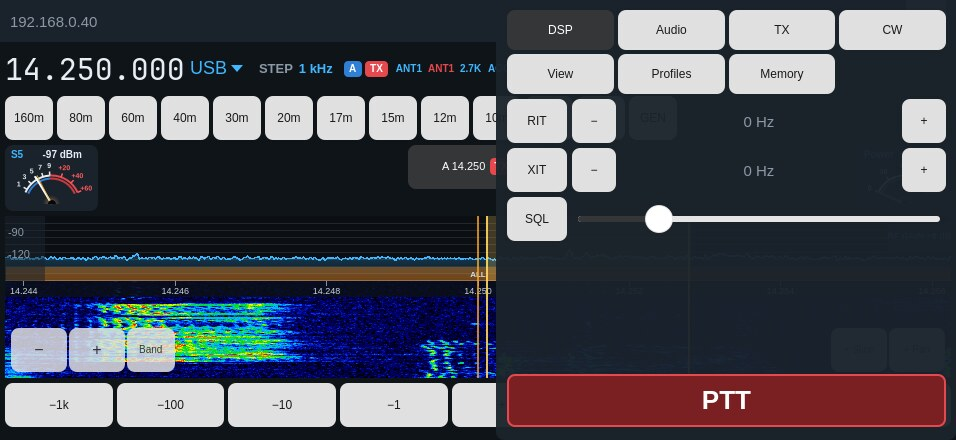
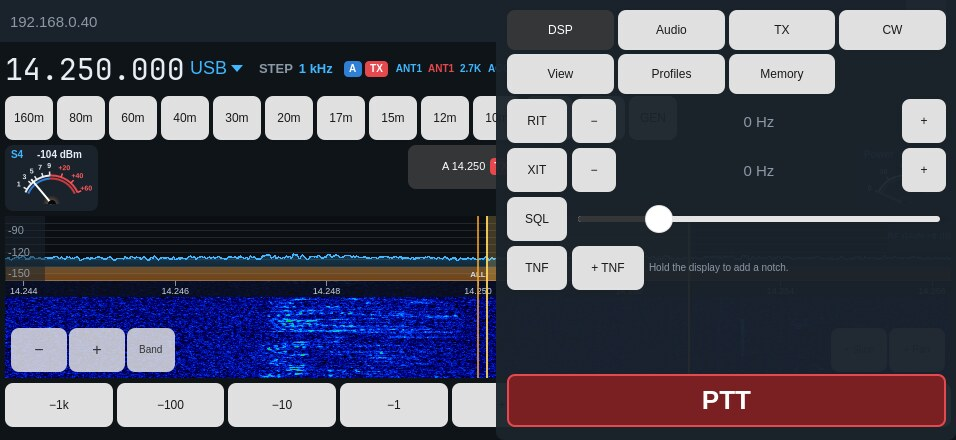
mobile: docs, notes and screenshots for build 77 and Android beta 2
- Manual: spots and the DX cluster, notches (TNF), memory editing, TX
  processing, voice keyer Listen, the Mic meter with this device's
  microphone, Android's microphone permission, the CPU and thread rows;
  new pictures tnf, memory-edit, tx-processing.
- README features and status, ROADMAP (build 77, beta 2, platforms),
  TestFlight notes for build 77, tester guide (Android microphone).
- README and manual screenshots refreshed against the FLEX-6600M.
- mobile/android/release.env + RELEASE_NOTES.md: CI publishes
  android-beta-2 with this push.
- docs-check: a waiver counts only when every commit that calls for the
  rule carries it; Android release notes are checked too.

Claude-Session: https://claude.ai/code/session_01KANojkzU64KoozGDbNDzRK

diff --git a/mobile/tools/docs-check.py b/mobile/tools/docs-check.py
@@ -15,8 +15,9 @@ have yet) and the docs as they are at HEAD:
   * every relative link, image and #anchor in the docs resolves;
   * the docs carry no old repository names, phone numbers or radio serials.
 
-A rule that does not apply to a change is waived with a commit trailer
-anywhere in the range, which also records why:
+A rule that does not apply to a change is waived with a commit trailer,
+which also records why; every commit in the range that calls for the rule
+must carry it:
 
     Manual: unchanged (internal fix)
     Screenshots: unchanged (no visible change)
@@ -41,7 +42,7 @@ IOS_WORKFLOW = ROOT / ".github/workflows/mobile-ios.yml"
 NOTES = "mobile/TESTFLIGHT_WHATS_NEW.txt"
 ROADMAP = "mobile/ROADMAP.md"
 MANUAL = "docs/mobile/MANUAL.md"
-DOCS = ["README.md", "docs/mobile/*.md", "mobile/*.md"]
+DOCS = ["README.md", "docs/mobile/*.md", "mobile/*.md", "mobile/android/*.md"]
 SCREENSHOTS = ["docs/mobile/*.jpg", "docs/mobile/manual/*.jpg"]
 NOTES_LIMIT = 4000
 
@@ -174,16 +175,31 @@ def main():
 
     if base:
         changed = [p for p in git("diff", "--name-only", f"{base}..{args.head}").splitlines() if p]
-        messages = git("log", "--format=%B", f"{base}..{args.head}")
-        waived = {m.group(1).lower() for m in re.finditer(r"^(Manual|Screenshots|Roadmap|Notes):\s*unchanged",
-                                                           messages, re.M | re.I)}
-        app = [p for p in changed if any(matches(p, pat) for pat in app_patterns())]
+        patterns = app_patterns()
+        app = [p for p in changed if any(matches(p, pat) for pat in patterns)]
         ui = [p for p in changed if p.startswith("mobile/qml/")]
+
+        # Per commit: what it touched and which rules its message waives. A
+        # rule is waived only when every commit that calls for it says so,
+        # so one commit's trailer cannot excuse the others.
+        commits = []
+        for sha in git("rev-list", f"{base}..{args.head}").split():
+            files = git("diff-tree", "--no-commit-id", "--name-only", "-r", "--root", sha).split()
+            message = git("log", "-1", "--format=%B", sha)
+            waives = {m.group(1).lower() for m in re.finditer(
+                r"^(Manual|Screenshots|Roadmap|Notes):\s*unchanged", message, re.M | re.I)}
+            commits.append((files, waives))
+
+        def calls_for(rule, files):
+            if rule in ("notes", "roadmap"):
+                return any(any(matches(p, pat) for pat in patterns) for p in files)
+            return any(p.startswith("mobile/qml/") for p in files)
 
         def need(rule, ok, message):
             if ok:
                 return
-            if rule in waived:
+            callers = [w for files, w in commits if calls_for(rule, files)]
+            if callers and all(rule in w for w in callers):
                 notes.append(f"{message} (waived: \"{rule.capitalize()}: unchanged\")")
             else:
                 errors.append(message)

diff --git a/docs/mobile/MANUAL.md b/docs/mobile/MANUAL.md
@@ -94,10 +94,13 @@ the time show. Tap it for the details:
   per stream (audio, spectrum, waterfall, meters). Packets that merely
   arrive out of order are not counted as lost.
 - **Traffic** — receive and send rates and totals.
-- **Performance** — the app's CPU, as a share of all cores (also shown in the
-  top row) and of one core, and the screen frames drawn per second. iOS gives
-  apps no GPU load; frames drawn falling well below the display's rate means
-  the graphics are not keeping up.
+- **Performance** — the app's CPU as a share of all cores (also shown in the
+  top row), the same added up over all its threads with one core = 100 %
+  (102 % is about one core's worth spread over several threads, not one
+  core full), on Android the **busiest threads** (UI, render, audio…; one
+  near 100 % is a core at its limit), and the screen frames drawn per
+  second. iOS and Android give apps no GPU load; frames drawn falling well
+  below the display's rate means the graphics are not keeping up.
 
 ## 3. Frequency, mode and the info panel
 
@@ -186,7 +189,10 @@ remembered.
 ![Meter chooser](manual/meter.jpg)
 
 Available: S, Power, SWR, ALC, Mic, Compression, PA temperature, supply
-voltage. Transmit meters read only while transmitting.
+voltage. Transmit meters read only while transmitting. **Mic** with this
+device's microphone shows the level of the audio as it is sent (after the
+processing in Controls → TX), while you transmit; with a microphone on the
+radio it is the radio's own meter.
 
 **Peak hold.** Each meter keeps its highest reading for 1.5 s — an amber
 needle on the analog meter, an amber tick on the bar — then lets it fall
@@ -229,6 +235,21 @@ transmit slice carries a red **TX** tag. Two fit side by side, four make
   USB/LSB and centred for CW/AM. Other slices are marked; tap one to select it.
 - Your own transmission shows in the waterfall.
 - In CW, decoded text runs along the top of the waterfall.
+- **Spots** — callsigns along the top of the spectrum at their frequency:
+  the spots the radio holds, from this app's DX cluster connection and
+  from any other program on the radio. Tap one to tune to it (the mode
+  follows the spot, as on the desktop). Close ones stack in up to four
+  rows; zoom in to see more. *Spots* in View turns them off and connects
+  the DX cluster.
+- **Notches (TNF)** — **press and hold** on the display to put a notch
+  there, or *+ TNF* in Controls → DSP for one in the middle of the
+  passband. A notch shows as a band through spectrum and waterfall
+  (yellow, or green when permanent; dim while TNF is off). Tap it for its
+  width (50–500 Hz), depth, *Permanent*, a 10 Hz nudge either way and
+  *Remove*; *TNF on/off* there is the radio's switch for all notches —
+  they only work while it is on.
+
+![Notch settings](manual/tnf.jpg)
 
 **View** (in Controls) switches between the 2D waterfall and the **3D**
 stacked trace and sets the levels. They work as on the desktop AetherSDR:
@@ -309,8 +330,9 @@ them back into the drawer.
 | ![DSP](manual/tab-dsp.jpg) | ![Audio](manual/tab-audio.jpg) | ![TX](manual/tab-tx.jpg) |
 
 - **DSP** — RIT and XIT (on/off; − and + step 10 Hz and run while held,
-  faster the longer: 10, then 50, then 100 Hz; tap the value to reset), and
-  squelch.
+  faster the longer: 10, then 50, then 100 Hz; tap the value to reset),
+  squelch, and **TNF** (the radio's notch filters on/off, *+ TNF* for a
+  notch in the passband; see [Panadapter and waterfall](#5-panadapter-and-waterfall)).
 - **Audio** — **Receive audio**: *Auto* uses Opus (compressed, made for
   the internet) over SmartLink or when the radio is reached through a VPN,
   and uncompressed audio on the local network; *Opus* or *Uncompressed* fix
@@ -332,13 +354,24 @@ them back into the drawer.
   microphone — the AM **carrier** level in
   AM/SAM/DSB, monitor (MON), **Mic level** (the radio's, as SmartSDR's MIC), microphone
   choice and the transmit filter (low and high cut).
+  - **This device's microphone: processing** (voice modes, with this
+    device's microphone) — AetherSDR's client-side transmit chain, run on
+    the phone or tablet before the audio is sent: **Gate** (mutes the
+    background between words below the threshold), **EQ** (low cut
+    100–300 Hz, bass and presence ±12 dB) and **Comp** (threshold, ratio
+    2:1–8:1 and makeup; while you transmit, how much it is taking off shows
+    beside the ratio). The radio's own 8-band transmit EQ is in Audio.
+    Check the result with MON or a second receiver at low power first.
+
+    ![Processing](manual/tx-processing.jpg)
   - **Voice keyer** (voice modes) — twelve voice macros F1–F12. Tap one to
     transmit it, tap again to stop; press and hold to record (from this
     device's microphone; recording does not transmit), rename or clear. On a
     radio with SmartSDR+ these are the radio's own DVK slots (up to 10 s,
-    shared with other programs, with *Listen* to hear one without
-    transmitting); otherwise the app keeps them on this device (up to 15 s)
-    and plays them into the transmit audio as if spoken. Features that need
+    shared with other programs); otherwise the app keeps them on this
+    device (up to 15 s) and plays them into the transmit audio as if
+    spoken. Either way **Listen** plays a recording to you without
+    transmitting, so you can check it before naming it. Features that need
     SmartSDR+ appear only when the radio reports the subscription.
 
 | CW | View | Profiles | Memory |
@@ -358,11 +391,22 @@ them back into the drawer.
   - Speed, pitch, **Break-in** (QSK) and the **Decoder**. Decoded text shows
     here and along the top of the waterfall; what you send shows there too,
     marked `[TX]`.
-- **View** — 2D waterfall or 3D, waterfall levels, spectrum range, 3D floor, smoothing and gain.
+- **View** — band plan, **Spots** (shown or hidden) and the **DX cluster**,
+  2D waterfall or 3D, waterfall levels, spectrum range, 3D floor, smoothing
+  and gain.
+  - **DX cluster** — tap to connect, again to disconnect. Set the server and
+    port (default dxc.nc7j.com 7300) and the callsign it logs in with (the
+    radio's own when left empty); **Auto** connects whenever the radio
+    does. Its spots go to the radio, so SmartSDR and every other program
+    on it show them too; they expire after 30 minutes.
 - **Profiles** — the radio's global, TX and mic profiles: load, save,
   delete, as in SmartSDR.
 - **Memory** — the radio's memory channels: tap to tune, *Save* stores the
-  current frequency, press and hold to delete.
+  current frequency under the name typed. **Press and hold** one to edit
+  its name, frequency (MHz) and mode — *Current* takes the slice's
+  frequency and mode — or to *Delete* it.
+
+  ![Editing a memory](manual/memory-edit.jpg)
 
 ## 9. Radio Setup
 
@@ -452,9 +496,12 @@ Android 9 or newer, 64-bit ARM (practically every phone and tablet from the
 last years).
 
 **Permissions, asked once.**
-- *Microphone* — the first time you press PTT.
-- *Notifications* and *battery optimization* — the first time you connect.
-  Allow both: while connected, OksaSDR runs a service with a notification
+- *Notifications*, *microphone* and *battery optimization* — the first
+  time you connect. The microphone is used only while PTT is held (or a
+  voice macro is recorded); if you refused it, PTT asks again, and when
+  Android no longer asks, turn it on in Settings → Apps → OksaSDR →
+  Permissions → Microphone.
+- Allow notifications and battery: while connected, OksaSDR runs a service with a notification
   (*OksaSDR — Connected to the radio*) so receive audio and the connection
   keep going when another app is in front or the screen is off. Some phones
   (OnePlus, Xiaomi, Huawei) also have their own setting: Settings → Apps →

diff --git a/mobile/android/RELEASE_NOTES.md b/mobile/android/RELEASE_NOTES.md
@@ -1,0 +1,25 @@
+**OksaSDR for Android — beta 2.** A FlexRadio client for Android phones and tablets, built on the [AetherSDR](https://github.com/aethersdr/AetherSDR) engine: the same app as on the iPhone and iPad (TestFlight build 77), from the same code.
+
+### New in beta 2
+- **Spots and the DX cluster** — View → Spots connects to a DX cluster (your radio's callsign, or one you set); spots show as callsigns on the display, tap one to tune. Spots from other programs on the radio show too.
+- **Notch filters (TNF)** — press and hold on the display to put a notch there; tap it for width, depth, permanent or remove. DSP tab: TNF on/off and *+ TNF*.
+- **Processing of the phone's microphone** (TX tab) — gate, EQ (low cut, bass, presence) and compressor before the audio is sent. Test at low power first.
+- **Memory editing** — press and hold a memory to change its name, frequency and mode.
+- **Voice keyer** — *Listen* plays a recording back without transmitting.
+- The **Mic** meter moves with the phone's microphone while you transmit; very low windows (a foldable's outer screen in landscape) show bar meters.
+- **Microphone permission**: beta 1 never asked for it (it had to be turned on in Android's settings). Beta 2 asks on the first connect, and PTT asks again if it was refused.
+
+### Install or update
+1. Download `OksaSDR-android-beta2.apk` below on the phone (about 150 MB).
+2. Open it; allow installing from your browser or file manager when Android asks. If Chrome keeps the download waiting, open ⋮ → *Downloads* → *Keep*.
+3. Beta 2 installs over beta 1 and keeps your settings. If you have one of the earlier hand-delivered test APKs, uninstall it first (different signing key).
+
+Android 9 or newer, 64-bit ARM. On the first connect, allow notifications, the microphone and "no battery optimization" so receive keeps going in the background and PTT can transmit.
+
+### Still to verify
+- LAN discovery on the radio's own network (connect by IP works everywhere)
+- More phones and tablets: please report your model and Android version
+
+Full guide: [tester guide](https://github.com/OH6OKSA/OksaSDR/blob/mobile/oksasdr/docs/mobile/TESTING.md#android) and [user manual](https://github.com/OH6OKSA/OksaSDR/blob/mobile/oksasdr/docs/mobile/MANUAL.md#13-android).
+
+OksaSDR is a community project, not affiliated with FlexRadio and not an official AetherSDR app. Licensed under GPLv3; the source is this repository (branch `mobile/oksasdr`).

diff --git a/mobile/ROADMAP.md b/mobile/ROADMAP.md
@@ -5,6 +5,14 @@ queued, waiting on someone, or still to verify follows.
 
 ## Released
 
+**Build 77** (2026-10-17), iPhone and iPad, and Android beta 2:
+- Spots on the display and a DX cluster connection (spots go to the radio); tap to tune.
+- TNF: hold on the display to add a notch, tap it to adjust; TNF switch in DSP.
+- TX processing of this device's microphone: gate, EQ, compressor.
+- Memory editing (name, frequency, mode).
+- Voice keyer: Listen also for clips kept on the device.
+- Mic meter reads this device's microphone; very low windows show bar meters.
+
 **Build 76** (2026-10-17), iPhone and iPad:
 - Radios on the connect page read as buttons.
 - Pan slider shows C / L n / R n and snaps to centre.
@@ -38,22 +46,26 @@ service, Qt kept running), SmartLink with the sign-in kept in the Android
 Keystore, Bluetooth headsets (hands-free), log sharing, LAN discovery
 (multicast lock), crash reasons logged on the next start.
 
+Beta 2: what iOS build 77 brings (spots and DX cluster, TNF, TX
+processing, memory editing, voice keyer Listen, Mic meter). Published by CI
+from `mobile/android/release.env`.
+
 Next: verify LAN discovery on the radio's network; APK size (about 150 MB).
 
 ## Later
 
 From the comparison with upstream main and tester requests:
-- DX cluster spots on the panadapter
-- TNF (tracking notch filters)
 - Filter edge drag and custom widths
-- Memory editing (name, mode, offsets)
+- Memory offsets and tones (repeaters); memory groups
+- Dragging a notch; spot filters (band, mode, age)
 - ATU tools and per-band TX settings
 - Profile import and export
 - QSO recording
 - 3D with 768 columns
 - Upstream FFT Smooth and De-comb
 - Optional VOX mode (microphone always open)
-- The desktop's client-side TX chain (gate, EQ, compressor: CHAIN)
+- More of the desktop's TX chain (de-esser, tube, exciter, reverb) and a
+  chain order
 - CW profiles (new in SmartSDR 4.3)
 
 ## Waiting
@@ -79,6 +91,8 @@ From the comparison with upstream main and tester requests:
 | RX audio, background audio | ✅ | ✅ (foreground service) |
 | Voice TX (device mic, Bluetooth headset) | ✅ | ✅ |
 | CW, CWX, decoder, voice keyer | ✅ (CW on air to verify) | built in, to verify |
+| Spots and DX cluster, TNF, memory editing | ✅ | ✅ |
+| TX processing (gate, EQ, compressor) | ✅ | ✅ |
 | Keyboard, pencil/stylus | ✅ | to verify |
 | Phone and tablet layouts | ✅ | ✅ |
 | Distribution | TestFlight | APK in GitHub Releases (beta) |

diff --git a/README.md b/README.md
@@ -67,7 +67,14 @@ radio interface, with no computer running alongside.
   tab, remembered on the device; plus the radio's own FFT average, FFT
   frames/s and waterfall speed.
 - **Band** beside −/+ zooms out to the whole band.
-- RF gain; the radio's memory channels (recall, save, delete).
+- RF gain; the radio's memory channels (recall, save, edit name,
+  frequency and mode, delete).
+- **Spots and DX cluster**: the radio's spots (from every program on it)
+  as callsigns on the display, tap to tune; the app's own DX cluster
+  connection sends its spots to the radio, as the desktop does.
+- **Notch filters (TNF)**: press and hold on the display for a notch, tap
+  it for width, depth, permanent or remove; drawn through spectrum and
+  waterfall as on the desktop.
 - The radio's global, TX and mic profiles: load, save and delete, as in
   SmartSDR and AetherSDR.
 - Filter passband drawn on the display, on the correct side for USB/LSB and
@@ -124,7 +131,10 @@ radio interface, with no computer running alongside.
   and radio mic level.
 - **Voice keyer**: twelve voice macros F1–F12. With SmartSDR+ they are the
   radio's DVK; without it the app records and plays them itself, kept on
-  the device.
+  the device. *Listen* plays one back without transmitting.
+- **Processing of the device's microphone**, AetherSDR's client-side TX
+  chain: gate, EQ (low cut, bass, presence) and compressor, with the Mic
+  meter reading the processed audio on the air.
 - Hold-to-talk PTT from the device's microphone (the radio's mic input is
   set to `PC` when the app connects), with RF power and mic level, plus forward power and SWR
   while transmitting. The microphone is open only while PTT is held.
@@ -204,6 +214,8 @@ refreshed with every user-interface change.</sub>
 | SmartLink remote (sign in, connect from anywhere, Opus audio) | ✅ Supported |
 | Remote over your own VPN (connect by IP) | ✅ In use by testers (OpenVPN, WireGuard) |
 | Several slices and panadapters, multiFLEX | ✅ Supported |
+| Spots and DX cluster, TNF, memory editing | ✅ Tested against a FLEX-6600M (build 77) |
+| TX processing (gate, EQ, compressor) | ✅ Measured on the FLEX with a test tone; testers' on-air reports welcome |
 | CW keying, CWX and decoder on air | ⏳ Not yet verified |
 | LAN discovery on iOS | ⏳ Needs Apple's multicast entitlement. Connect by IP for now. |
 | LAN discovery on Android | 🧪 Built in; to be verified on the radio's own network |

diff --git a/docs/mobile/TESTING.md b/docs/mobile/TESTING.md
@@ -84,9 +84,11 @@ The Android beta needs no invitation: download it and install it.
    *Downloads* and choose *Keep*.
 3. Android asks to allow installing apps from the browser or file
    manager: allow it, then *Install*.
-4. Open OksaSDR. On the first connect allow notifications and "no battery
-   optimization", so receive keeps going in the background (see the
-   [manual](MANUAL.md#13-android)).
+4. Open OksaSDR. On the first connect allow notifications, the microphone
+   and "no battery optimization", so receive keeps going in the background
+   and PTT can transmit (see the [manual](MANUAL.md#13-android)). Beta 1
+   did not ask for the microphone: turn it on in Settings → Apps →
+   OksaSDR → Permissions, or update to beta 2.
 
 You need Android 9 or newer on a 64-bit ARM phone or tablet. A newer beta
 installs over the old one. Report problems the same way as on the iPhone
